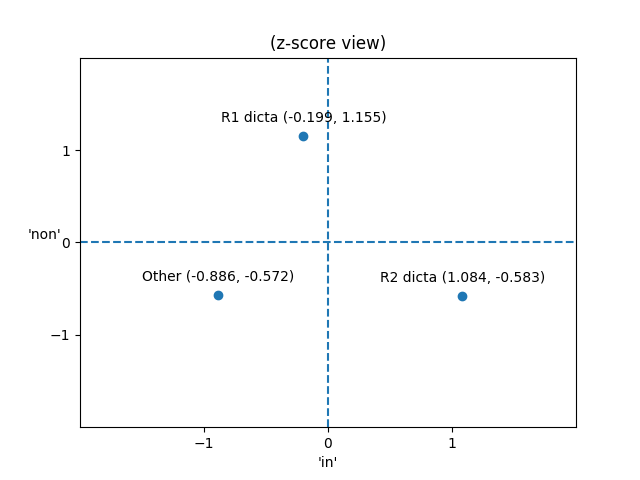
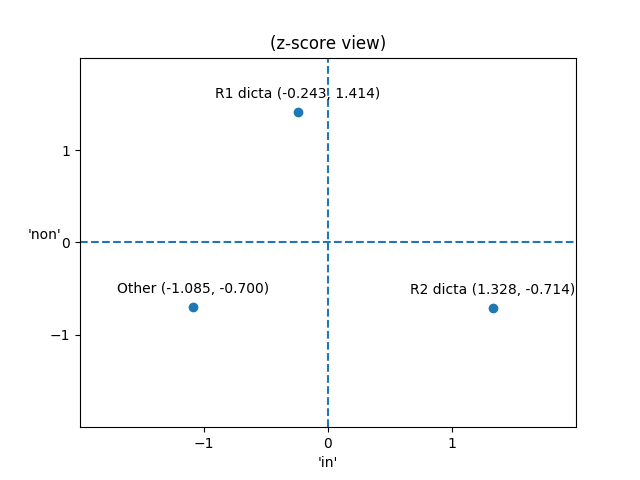
Revert to population standard deviation

Changed region(s): [[0.5938, 0.5625, 0.9062, 0.6562], [0.3438, 0.1875, 0.5938, 0.3125], [0.1875, 0.5625, 0.4688, 0.6562]]

diff --git a/Chapter4/bin/visualize3.py b/Chapter4/bin/visualize3.py
@@ -1,7 +1,7 @@
 #!/usr/local/bin/python3
 #
 # Paul Evans (10evans@cua.edu)
-# 1-3 March 2020
+# 1-7 March 2020
 # 6-11 February 2020
 # 22 January 2020
 #
@@ -9,19 +9,33 @@ import math
 import matplotlib.pyplot as pp
 import statistics
 
+def pstdev(data, **kwargs):
+    '''Temporary replacement for statistics.pstdev()'''
+    mu = None
+    if 'mu' in kwargs: mu = kwargs['mu'] # type check: int, float, or None
+    if mu == None: mu = statistics.mean(data)
+    sum = 0
+    for i in range(len(data)):
+        sum += (data[i] - mu) ** 2
+    return(math.sqrt(sum / len(data)))
+
 def stats(word, data):
     frequency_A = (data[word][1] / data['all'][1]) * 1000
     frequency_B = (data[word][2] / data ['all'][2]) * 1000
     frequency_C = (data[word][3] / data ['all'][3]) * 1000
     frequency_values = [frequency_A, frequency_B, frequency_C]
     frequency_mean = statistics.mean(frequency_values)
-    standard_deviation = statistics.stdev(frequency_values)
-    filler = f'occurrences of \'{word}\' per 1,000 words'
+    # standard_deviation = statistics.stdev(frequency_values)
+    standard_deviation = pstdev(frequency_values)
+    filler = f"occurrences of '{word}' per 1,000 words"
     print(f'{frequency_A:7.4f} {filler} (R1 dicta)')
     print(f'{frequency_B:7.4f} {filler} (R2 dicta)')
     print(f'{frequency_C:7.4f} {filler} (Other)')
-    print(f'{frequency_mean:7.4f} {filler} (mean)')
+    print(f"{(data[word][0] / data['all'][0]) * 1000:7.4f} {filler} (mean)")
+    print(f'{frequency_mean:7.4f} {filler} (mean of means)')
     print(f'{standard_deviation:7.4f} {filler} (standard deviation)')
+    percentage(word, 'R1', 'R2', frequency_A, frequency_B)
+    percentage(word, 'R2', 'R1', frequency_B, frequency_A)
     return (frequency_A, frequency_B, frequency_C, frequency_mean, standard_deviation)
 
 def f_plot(x_word, x_frequencies, y_word, y_frequencies):
@@ -112,6 +126,12 @@ def z_plot(x_word, x_frequencies, y_word, y_frequencies):
     # pp.savefig('../PNGs/Figure_ABC_z-score')
     pp.gcf().canvas.set_window_title('Figure 0')
     pp.show()
+
+def percentage(word, title1, title2, frequency, mean):
+    percentage = ((frequency - mean) / mean) * 100
+    if percentage > 0: more_or_less = 'more'
+    else: more_or_less = 'less'
+    print(f'\'{word}\' occurs {abs(percentage):.2f}% {more_or_less} frequently in {title1} than in {title2}')
 
 def main():
     frequencies = {
